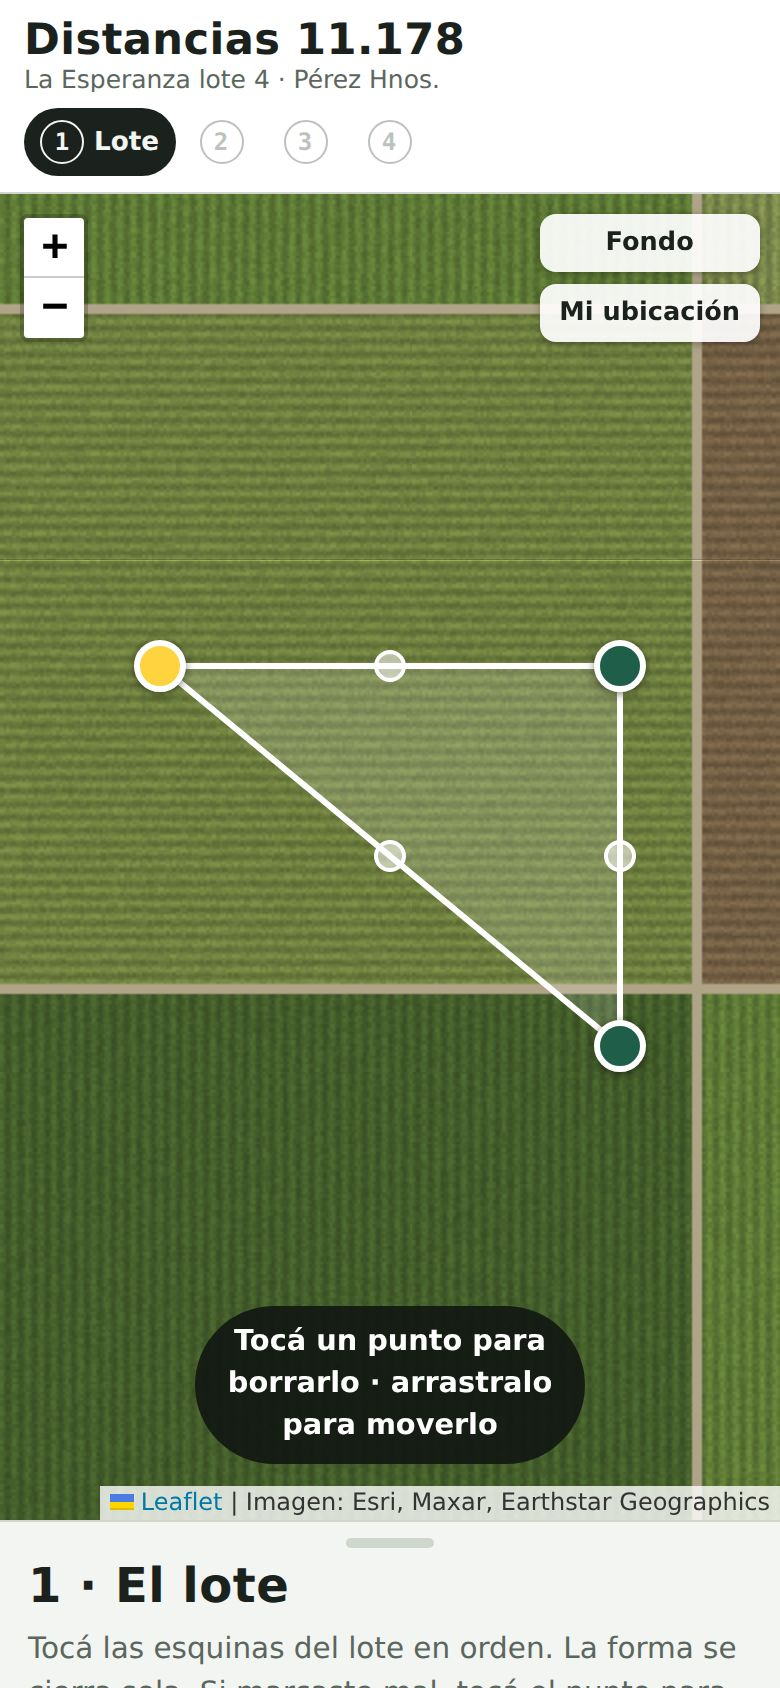
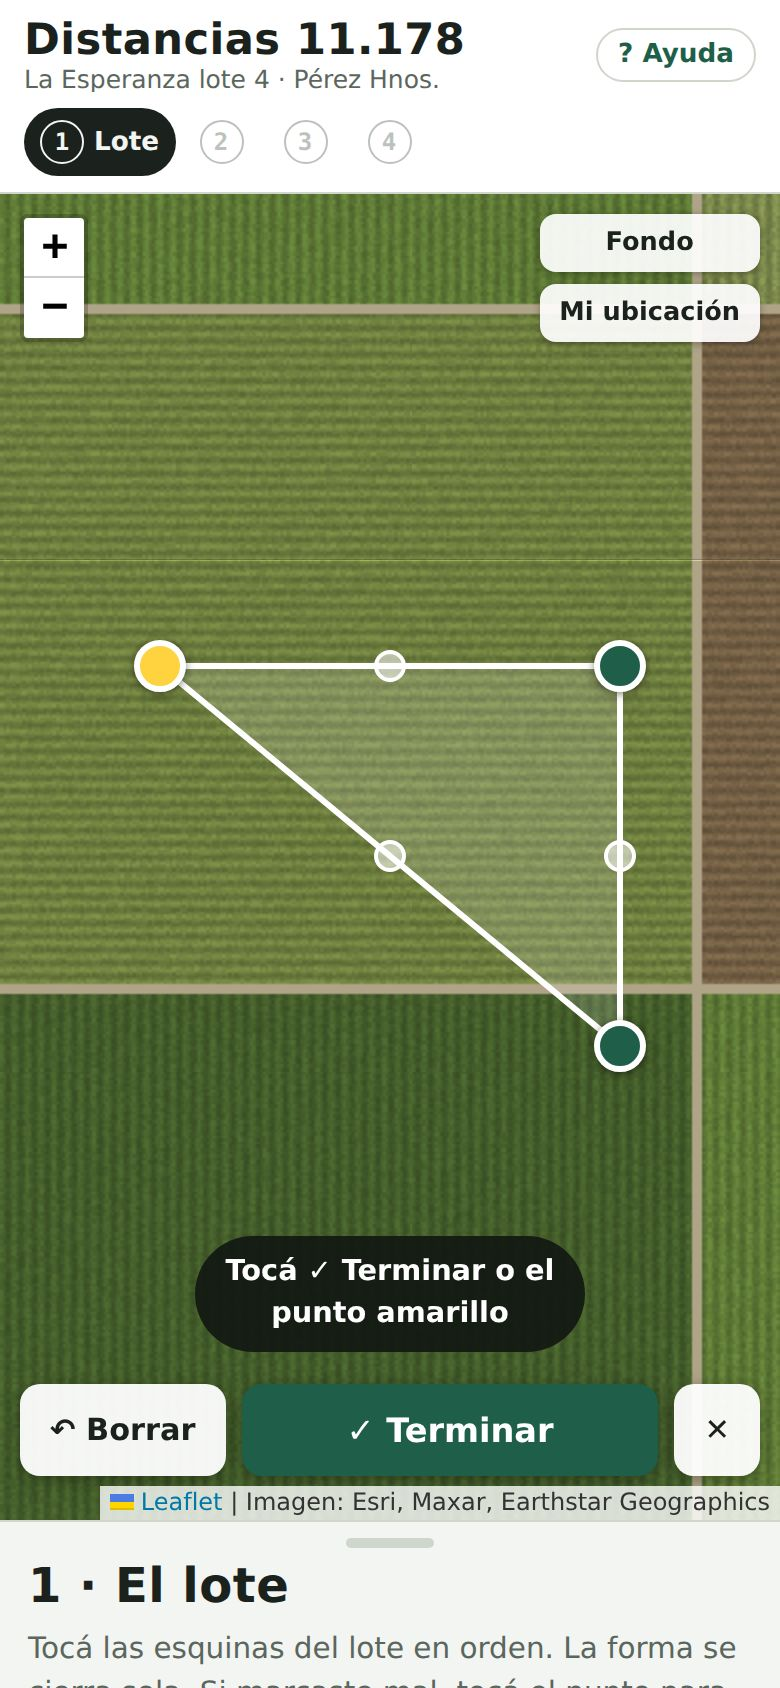
Add files via upload

Changed region(s): [[0.0, 0.7085, 0.9846, 0.8934], [0.8, 0.0, 0.9538, 0.0616]]

diff --git a/app.js b/app.js
@@ -154,7 +154,7 @@ function canGo(s) {
 function go(s) {
   if (!canGo(s)) return;
   if (draw) cancelDraw();
-  if (step === "campo" && s !== "campo") stopGps();
+  if (step === "campo" && s !== "campo") { stopGps(); campo.punto = null; campo.acc = null; gCampo.clearLayers(); }
   if (s === "res" && lote()) { lote().vistoRes = true; save(); }
   step = s; render(); $("#sheet").classList.remove("min");
   $("#sheet").scrollTop = 0;
@@ -180,6 +180,7 @@ function render() {
 
 function drawMap() {
   gZonas.clearLayers(); gLote.clearLayers(); gAreas.clearLayers();
+  if (step !== "campo") gCampo.clearLayers();
   const L = lote();
   if (!L || step === "lista") { S.lotes.filter((l) => l.geom).forEach((l) => L_poly(l.geom, { color: "#fff", weight: 2, fillOpacity: 0.08 }).bindTooltip(esc(l.nombre || "Lote")).on("click", () => { S.actual = l.id; save(); go("res"); }).addTo(gLote)); return; }
   if (L.geom && (step === "res" || step === "aplic" || step === "campo") && L.areas.length) {
@@ -235,7 +236,7 @@ function pLote() {
     <label class="field">Nombre del lote<input id="inNombre" value="${esc(L.nombre)}" placeholder="Ej.: La Esperanza lote 4"></label>
     <label class="field">Cliente<input id="inCliente" value="${esc(L.cliente)}" placeholder="Ej.: Pérez Hnos."></label>
   </div>
-  ${dibujando ? drawButtons() : `<div class="row">
+  ${dibujando ? "" : `<div class="row">
     ${L.geom ? `<button type="button" class="btn ghost" data-act="editar-lote">Editar puntos</button><button type="button" class="btn ghost" data-act="dibujar-lote">Redibujar de cero</button>` : `<button type="button" class="btn" data-act="dibujar-lote">Dibujar lote</button>`}
     <button type="button" class="btn ghost" data-act="importar">Importar KML</button>
     <button type="button" class="btn ghost" data-act="buscar">Ir a coordenadas</button>
@@ -251,7 +252,7 @@ function pSens() {
   const t = TIPOS[pick.tipo];
   return `<h2 class="t">2 · Áreas sensibles</h2>
   <p class="lead">${dibujando ? (pick.forma === "pt" ? `Tocá en el mapa dónde está: <b>${t.t.toLowerCase()}</b>.` : `Tocá los puntos del ${pick.forma === "line" ? "cauce" : "perímetro"} y después Terminar.`) : "Elegí qué hay cerca del lote y marcalo en el mapa. Podés agregar varias."}</p>
-  ${dibujando ? drawButtons() : `
+  ${dibujando ? "" : `
   <div><div class="lbl">¿Qué hay?</div><div class="tiles">
     ${Object.entries(TIPOS).map(([k, v]) => `<button type="button" class="tile${pick.tipo === k ? " on" : ""}" data-tipo="${k}"><b><span class="sw" style="background:${v.c}"></span>${v.t}</b><small>${v.d}</small></button>`).join("")}
   </div></div>
@@ -375,11 +376,12 @@ function pCampo() {
 
 /* ================= Dibujo ================= */
 function drawButtons() {
-  const n = draw ? draw.pts.length : 0, need = draw && draw.target === "lote" ? 3 : draw && draw.forma === "line" ? 2 : 3;
+  const n = draw ? draw.pts.length : 0, need = draw && draw.forma === "line" ? 2 : 3;
   const pt = draw && draw.forma === "pt";
-  return `<div class="row">${pt ? "" : `<button type="button" class="btn ghost" data-draw="undo" ${n ? "" : "disabled"}>Borrar último</button>
-    <button type="button" class="btn" data-draw="done" ${n >= need ? "" : "disabled"}>Terminar (${n})</button>`}
-    <button type="button" class="btn ghost" data-draw="cancel">Cancelar</button></div>`;
+  return pt ? `<button type="button" class="btn ghost" data-draw="cancel">Cancelar</button>`
+    : `<button type="button" class="btn ghost" data-draw="undo" ${n ? "" : "disabled"}>↶ Borrar</button>
+    <button type="button" class="btn big-done" data-draw="done" ${n >= need ? "" : "disabled"}>✓ Terminar</button>
+    <button type="button" class="btn ghost" data-draw="cancel" aria-label="Cancelar">✕</button>`;
 }
 function startDraw(target, pts) {
   draw = { target, tipo: pick.tipo, forma: target === "lote" ? "poly" : pick.forma, pts: pts ? pts.map((p) => p.slice()) : [], edit: !!pts };
@@ -392,14 +394,15 @@ const mIcon = LF.divIcon({ className: "vtx-mid", iconSize: [16, 16], iconAnchor:
 function refreshDrawPanel() { if (step === "lote" || step === "sens") $("#panel").innerHTML = ({ lote: pLote, sens: pSens })[step](); }
 function syncDraw() {
   gDraw.clearLayers();
-  const h = $("#drawhint");
-  if (!draw) { h.hidden = true; return; }
+  const h = $("#drawhint"), bar = $("#drawbar");
+  if (!draw) { h.hidden = true; bar.hidden = true; return; }
   const n = draw.pts.length, poly = draw.forma === "poly";
-  h.hidden = false;
+  h.hidden = false; bar.hidden = false; bar.innerHTML = drawButtons();
   h.textContent = draw.forma === "pt" ? "Tocá donde está"
     : n === 0 ? "Tocá el primer punto"
     : n < (poly ? 3 : 2) ? "Seguí tocando puntos"
-    : "Tocá un punto para borrarlo · arrastralo para moverlo";
+    : poly ? "Tocá ✓ Terminar o el punto amarillo"
+    : "Tocá ✓ Terminar al llegar al final";
   if (!n) return;
   const lls = draw.pts.map((p) => [p[1], p[0]]);
   const c = draw.target === "lote" ? "#ffffff" : TIPOS[draw.tipo].c;
@@ -419,7 +422,7 @@ function syncDraw() {
   // vértices: tocar = borrar, arrastrar = mover
   lls.forEach((ll, i) => {
     LF.marker(ll, { icon: vIcon(i === 0), draggable: true, title: "Tocá para borrar, arrastrá para mover" })
-      .on("click", () => { draw.pts.splice(i, 1); syncDraw(); refreshDrawPanel(); })
+      .on("click", () => { if (i === 0 && poly && draw.pts.length >= 3) { finishDraw(); return; } draw.pts.splice(i, 1); syncDraw(); refreshDrawPanel(); })
       .on("drag", (ev) => { const p = ev.target.getLatLng(); draw.pts[i] = [p.lng, p.lat]; })
       .on("dragend", () => syncDraw())
       .addTo(gDraw);

diff --git a/styles.css b/styles.css
@@ -44,7 +44,7 @@ button{font-family:inherit}
 #map{position:absolute;inset:0;background:#20261f}
 .maptools{position:absolute;top:10px;right:10px;z-index:500;display:flex;flex-direction:column;gap:6px}
 .mt{border:0;background:rgb(255 255 255 / .92);color:#1b221d;font:600 .8rem var(--body);padding:7px 10px;border-radius:8px;box-shadow:0 1px 4px rgb(0 0 0 / .3);cursor:pointer}
-.drawhint{position:absolute;left:50%;transform:translateX(-50%);bottom:28px;z-index:500;background:rgb(15 20 17 / .88);color:#fff;font-weight:600;padding:8px 14px;border-radius:999px;font-size:.9rem;max-width:calc(100% - 24px);text-align:center;pointer-events:none}
+.drawhint{position:absolute;left:50%;transform:translateX(-50%);bottom:84px;z-index:500;background:rgb(15 20 17 / .88);color:#fff;font-weight:600;padding:8px 14px;border-radius:999px;font-size:.9rem;max-width:calc(100% - 24px);text-align:center;pointer-events:none}
 
 /* Panel */
 .sheet{grid-area:sheet;overflow:auto;max-height:56dvh;padding:0 14px calc(env(safe-area-inset-bottom,0px) + 14px);background:var(--bg);border-top:1px solid var(--line);position:relative}
@@ -159,3 +159,11 @@ dialog::backdrop{background:rgb(0 0 0 / .45)}
 .vtx{background:#1f5f4a;border:3px solid #fff;border-radius:50%;box-shadow:0 1px 4px rgb(0 0 0 / .5);cursor:grab}
 .vtx.first{background:#ffd23f}
 .vtx-mid{background:rgb(255 255 255 / .55);border:2px solid #fff;border-radius:50%;cursor:copy}
+
+/* Barra de dibujo flotante sobre el mapa: siempre visible en el celular */
+.drawbar-map{position:absolute;left:10px;right:10px;bottom:calc(env(safe-area-inset-bottom,0px) + 22px);z-index:600;display:flex;gap:8px;justify-content:center;flex-wrap:nowrap}
+.drawbar-map .btn{white-space:nowrap;padding-inline:14px}
+.drawbar-map .btn{box-shadow:0 2px 8px rgb(0 0 0 / .35)}
+.drawbar-map .btn.ghost{background:rgb(255 255 255 / .95);color:#1b221d;border-color:transparent}
+.btn.big-done{font-size:1.05rem;padding:12px 20px;flex:1;max-width:220px;justify-content:center;background:#1f5f4a;border-color:#1f5f4a;color:#fff}
+.btn.big-done:disabled{opacity:.55}

diff --git a/manual.html b/manual.html
@@ -208,7 +208,7 @@ details>div{padding-bottom:14px;display:flex;flex-direction:column;gap:8px}
           <li><span>Tocá <span class="btnlabel">Dibujar lote</span>. El panel de abajo se achica para que veas más mapa.</span></li>
           <li><span>Tocá cada <b>esquina del lote, una atrás de otra</b>, dando la vuelta en orden. El primer punto queda <b>amarillo</b>.</span></li>
           <li><span>No hace falta volver al primer punto: <b>la forma se cierra sola</b>, uniendo el último punto con el primero.</span></li>
-          <li><span>Cuando marcaste todas las esquinas, tocá <span class="btnlabel">Terminar</span>.</span></li>
+          <li><span>Cuando marcaste todas las esquinas, tocá el botón verde <span class="btnlabel">✓ Terminar</span> que está abajo sobre el mapa, o tocá el <b>punto amarillo</b>.</span></li>
         </ol>
       </div>
     </div>
@@ -217,10 +217,10 @@ details>div{padding-bottom:14px;display:flex;flex-direction:column;gap:8px}
         <h3>Si marcaste mal un punto</h3>
         <p>Es muy fácil tocar donde no era. Se arregla así:</p>
         <ul class="dot">
-          <li><b>Para borrar un punto:</b> tocalo. Cualquier punto, no solo el último.</li>
+          <li><b>Para borrar un punto:</b> tocalo. Cualquier punto menos el amarillo, que cierra la figura.</li>
           <li><b>Para moverlo:</b> mantenelo apretado y arrastralo con el dedo hasta el lugar correcto.</li>
           <li><b>Para agregar un punto en el medio de un lado:</b> tocá el <b>circulito blanco chico</b> que hay en la mitad de cada lado.</li>
-          <li><span class="btnlabel g">Borrar último</span> borra el último punto que pusiste.</li>
+          <li><span class="btnlabel g">↶ Borrar</span> borra el último punto que pusiste, y <span class="btnlabel g">✕</span> cancela el dibujo.</li>
         </ul>
         <div class="tip ojo"><b>Ojo</b><span>Acercá bien el mapa antes de tocar. Con el mapa lejos, un dedo tapa decenas de metros.</span></div>
       </div>

diff --git a/sw.js b/sw.js
@@ -1,5 +1,5 @@
 /* Guarda la app para usarla sin señal y las teselas del mapa que ya se vieron. */
-const APP = "d11178-app-v3";
+const APP = "d11178-app-v4";
 const TILES = "d11178-tiles-v1";
 const MAX_TILES = 3000;
 const SHELL = [
@@ -30,11 +30,14 @@ self.addEventListener("fetch", (e) => {
     }).catch(() => caches.match(req)));
     return;
   }
-  if (url.includes("fonts.g") || url.startsWith(self.location.origin) || url.includes("unpkg.com") || url.includes("cdn.jsdelivr.net")) {
-    // app: la versión guardada al instante y se actualiza en segundo plano
-    e.respondWith(caches.match(req).then((hit) => {
-      const net = fetch(req).then((r) => { const cp = r.clone(); caches.open(APP).then((c) => c.put(req, cp)); return r; }).catch(() => hit);
-      return hit || net;
-    }));
+  if (url.startsWith(self.location.origin)) {
+    // archivos de la app: primero la versión nueva de internet; sin señal, la guardada
+    e.respondWith(fetch(req).then((r) => { const cp = r.clone(); caches.open(APP).then((c) => c.put(req, cp)); return r; })
+      .catch(() => caches.match(req).then((hit) => hit || caches.match("index.html"))));
+    return;
+  }
+  if (url.includes("fonts.g") || url.includes("unpkg.com") || url.includes("cdn.jsdelivr.net")) {
+    // librerías y fuentes: la guardada al instante
+    e.respondWith(caches.match(req).then((hit) => hit || fetch(req).then((r) => { const cp = r.clone(); caches.open(APP).then((c) => c.put(req, cp)); return r; })));
   }
 });

diff --git a/index.html b/index.html
@@ -38,6 +38,7 @@
       <button type="button" class="mt" data-act="locate" title="Ir a mi ubicación">Mi ubicación</button>
     </div>
     <div class="drawhint" id="drawhint" hidden></div>
+    <div class="drawbar-map" id="drawbar" hidden></div>
   </div>
 
   <aside class="sheet" id="sheet">
